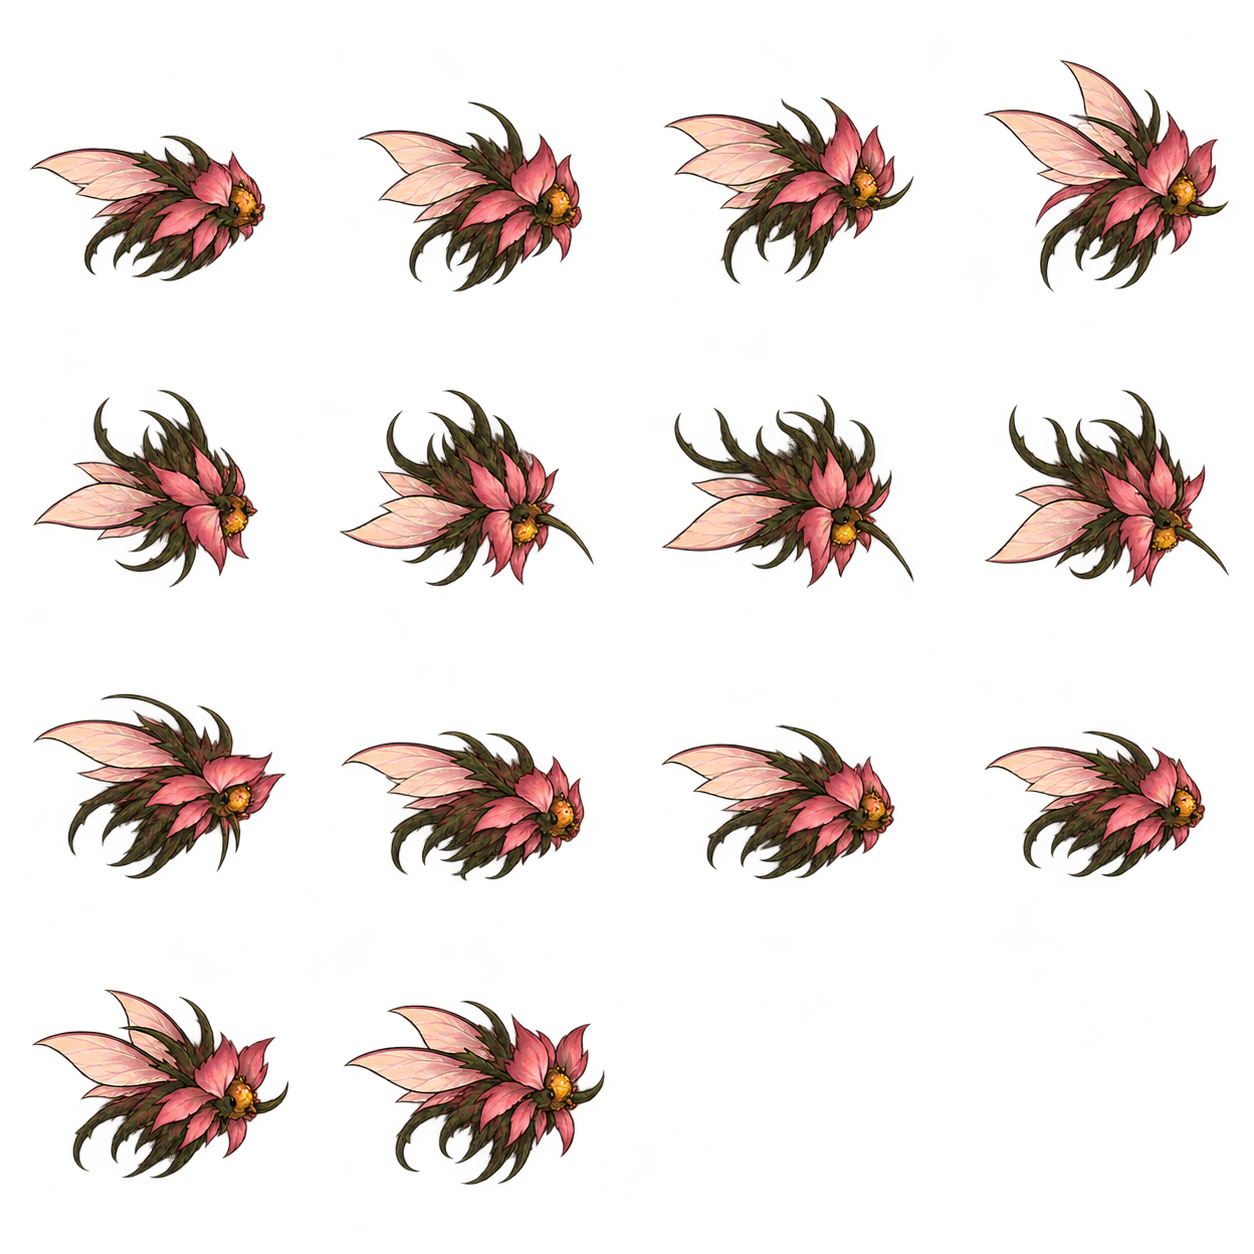
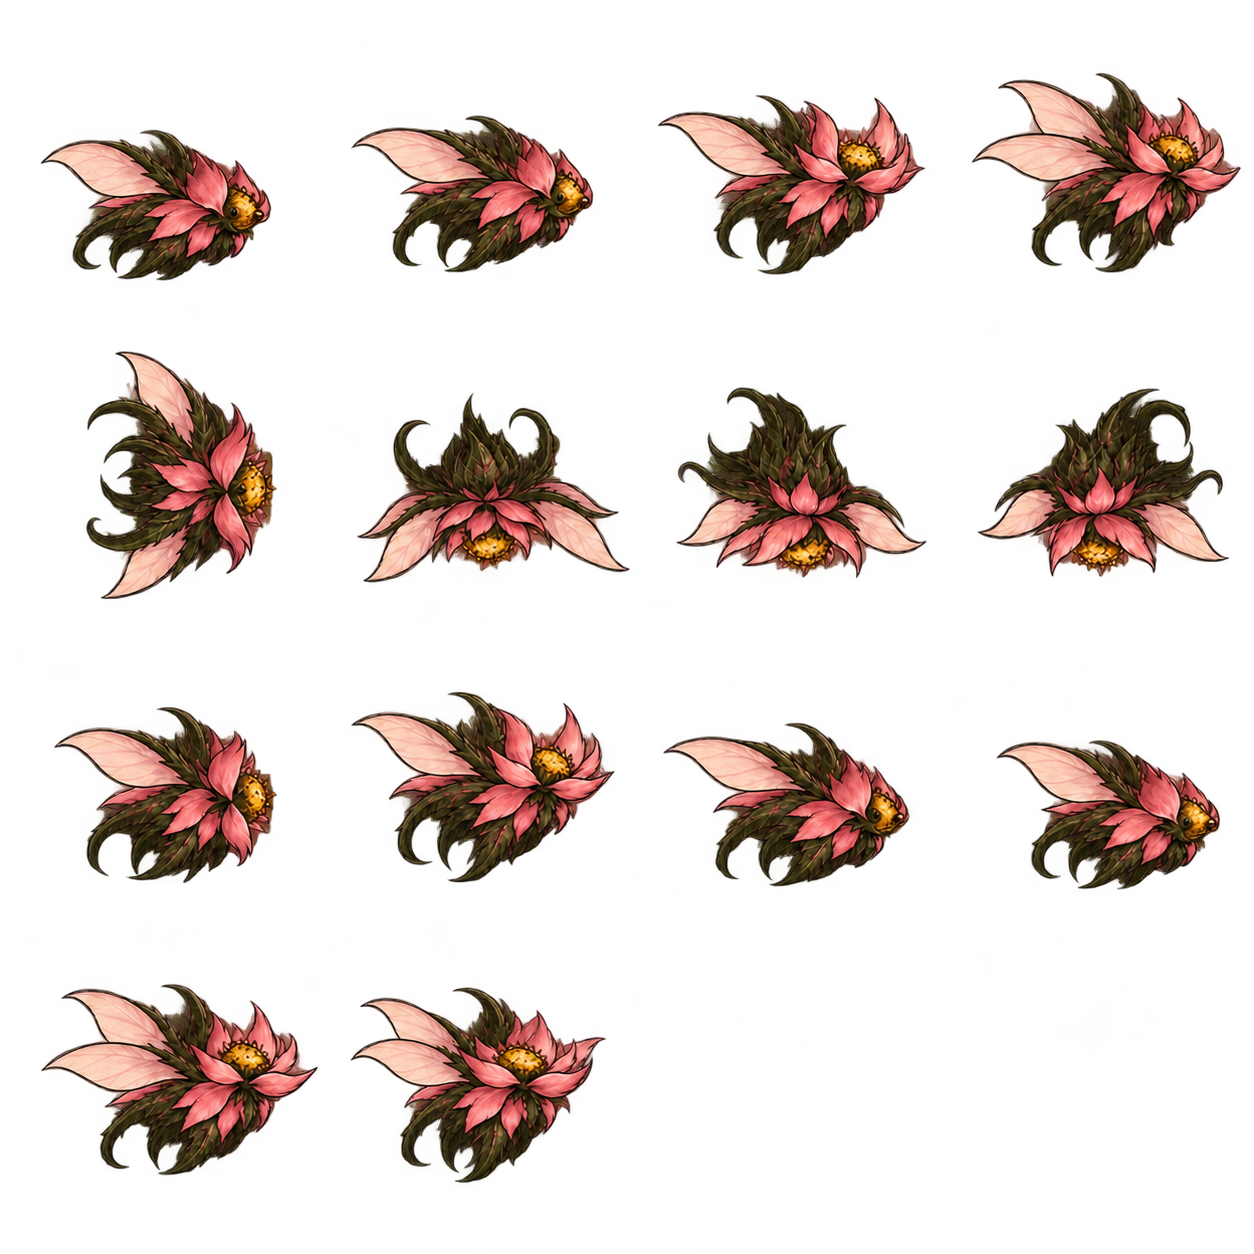
art: redraw bloom seeds with inverted whole-body strike

diff --git a/art_requests/creature_attacks_v1/incoming/README.md b/art_requests/creature_attacks_v1/incoming/README.md
@@ -106,3 +106,5 @@
 重画记录（2026-10-18）：`echo_wheel_elite.png` — 长剑在 14 格全程可见；第 6–9 格持盾手为空，接回后只保留一面盾牌，移除投盾残影。
 
 重画记录（2026-10-18）：`echo_thorn_double.png` — 第 6–8 格改为直立张开双臂，第 7 格全身附着甲片外翻，红刃向后下方展开；不再画成前刺，保留 14 格。
+
+重画记录（2026-10-18）：`bloom_seeds.png` — 第 6–8 格整只倒立，绿色荆棘背壳在上、金色核心朝下，并区分左右抖动；第 13–14 格均朝上盛开，保留 14 格。
